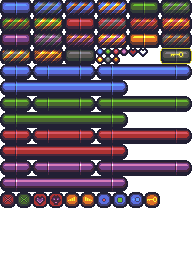
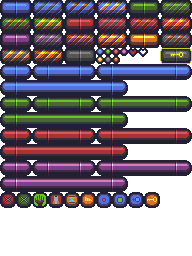
Almost Final Update breakout
Changed the sprites of the power ups
Syncronized the pauseState with PlayState becasue it was loosing important info on the power ups and elements, also i wanted ir to render everything, not only the blocks and dthe paddle, but also the powerups, the balls
im thinking that the render of each strategy also renders their timer? maybe next update

Changed region(s): [[0.1562, 0.75, 0.4062, 0.8125]]

diff --git a/03-breakout/src/states/PlayState.py b/03-breakout/src/states/PlayState.py
@@ -40,10 +40,13 @@ class PlayState(BaseState):
             self.balls[0].vy = random.randint(-170, -100)
             settings.SOUNDS["paddle_hit"].play()
 
+        self.missiles = params.get("missiles", [])
+        if not params.get("active_strategies", False):
+            self.active_strategies = {}
+        else:
+            self.active_strategies = params["active_strategies"]
+
         self.powerups_abstract_factory = AbstractFactory("src.powerups")
-        self.missiles = []
-        
-        self.active_strategies = {}
 
     def add_strategy(self, key: str, strategy, time: float):
         strategy.activate(time)
@@ -119,7 +122,7 @@ class PlayState(BaseState):
             elif random.random() < 0.1:
                 r = brick.get_collision_rect()
                 self.powerups.append(self.powerups_abstract_factory.get_factory("MissilesBall").create(r.centerx -8, r.centery - 8))
-            elif random.random() < 0.3:
+            elif random.random() < 0.1:
                 r = brick.get_collision_rect()
                 self.powerups.append(self.powerups_abstract_factory.get_factory("SlowDownTime").create(r.centerx -8, r.centery - 8))
 
@@ -144,7 +147,7 @@ class PlayState(BaseState):
                 )
 
         for powerup in self.powerups:
-            powerup.update(dt)
+            powerup.update(ball_dt)
             if powerup.collides(self.paddle):
                 powerup.take(self)
 
@@ -183,8 +186,8 @@ class PlayState(BaseState):
             ball.render(surface)
         for powerup in self.powerups:
             powerup.render(surface)
-        for m in self.missiles:
-            m.render(surface)
+        for strat in self.active_strategies.values():
+            strat.render(surface, self)
 
         ui_x = 10 
         ui_y = 5
@@ -245,5 +248,6 @@ class PlayState(BaseState):
                 points_to_next_live=self.points_to_next_live,
                 live_factor=self.live_factor,
                 powerups=self.powerups,
-                missiles = self.missiles
+                missiles = self.missiles,
+                active_strategies = self.active_strategies
             )

diff --git a/03-breakout/src/strategys/SMissil.py b/03-breakout/src/strategys/SMissil.py
@@ -1,6 +1,6 @@
 from src.Missile import Missile
 from src.strategys.PwStrategy import PwStrategy
-
+import settings
 class StratMissil(PwStrategy):
     def update(self, dt: float, play_state):
         if self.active:
@@ -28,5 +28,14 @@ class StratMissil(PwStrategy):
     def on_input(self, input_id, input_data, play_state):
         if input_id == "missil" and input_data.pressed:
             if len(play_state.missiles) == 0:
-                play_state.missiles.append(Missile(play_state.paddle.x, play_state.paddle.y))
-                play_state.missiles.append(Missile(play_state.paddle.x + play_state.paddle.width - 4, play_state.paddle.y))
+                play_state.missiles.append(Missile(play_state.paddle.x - 15, play_state.paddle.y))
+                play_state.missiles.append(Missile(play_state.paddle.x + play_state.paddle.width, play_state.paddle.y))
+    def render(self, surface, play_state):
+            paddle = play_state.paddle
+            
+            for missil in play_state.missiles:
+                missil.render(surface)
+            if self.timer > 0:
+                cannon_texture = settings.TEXTURES["cannon"] 
+                surface.blit(cannon_texture, (paddle.x - 16, paddle.y))
+                surface.blit(cannon_texture, (paddle.x + paddle.width, paddle.y))

diff --git a/03-breakout/src/states/PauseState.py b/03-breakout/src/states/PauseState.py
@@ -19,6 +19,7 @@ class PauseState(BaseState):
         self.points_to_next_live = params["points_to_next_live"]
         self.powerups = params["powerups"]
         self.missiles = params["missiles"]
+        self.active_strategies = params["active_strategies"]
         settings.SOUNDS["pause"].play()
 
     def render(self, surface: pygame.Surface) -> None:
@@ -70,6 +71,8 @@ class PauseState(BaseState):
 
         for missil in self.missiles:
             missil.render(surface)
+        for id, strat in self.active_strategies.items():
+            strat.render(surface, self)
 
         
 
@@ -86,5 +89,7 @@ class PauseState(BaseState):
                 points_to_next_live=self.points_to_next_live,
                 live_factor=self.live_factor,
                 powerups=self.powerups,
+                missiles = self.missiles,
+                active_strategies = self.active_strategies,
                 resume=True,
             )

diff --git a/03-breakout/settings.py b/03-breakout/settings.py
@@ -84,7 +84,8 @@ TEXTURES = {
     "spritesheet": pygame.image.load(BASE_DIR / "assets" / "graphics" / "breakout.png"),
     "hearts": pygame.image.load(BASE_DIR / "assets" / "graphics" / "hearts.png"),
     "arrows": pygame.image.load(BASE_DIR / "assets" / "graphics" / "arrows.png"),
-    "missile": pygame.image.load(BASE_DIR / "assets" / "graphics" / "missil.png")
+    "missile": pygame.image.load(BASE_DIR / "assets" / "graphics" / "missil.png"),
+    "cannon": pygame.image.load(BASE_DIR / "assets" / "graphics" / "cannon.png"),
 }
 
 FRAMES = {

diff --git a/03-breakout/src/Missile.py b/03-breakout/src/Missile.py
@@ -6,8 +6,8 @@ class Missile():
     def __init__(self, x : float, y : float):
         self.x = x
         self.y = y
-        self.width = 40
-        self.height = 44
+        self.width = 15
+        self.height = 16
         self.vy = -settings.POWERUP_SPEED * 2
         self.active = True
         self.texture = settings.TEXTURES["missile"]

diff --git a/03-breakout/src/strategys/PwStrategy.py b/03-breakout/src/strategys/PwStrategy.py
@@ -20,3 +20,5 @@ class PwStrategy:
 
     def on_input(self, input_id, input_data, play_state):
         pass
+    def render(self, surface, play_state):
+        pass
